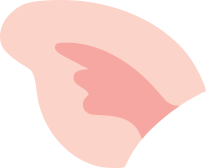
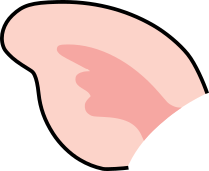
fix pig tail

diff --git a/src/filters/pig_tail.py b/src/filters/pig_tail.py
@@ -1,30 +1,78 @@
 import cv2
 import numpy as np
-from src.filters.base import overlay_sticker_from_landmarks
 
-# Load pig tail sticker
+# Load pig tail PNG (RGBA)
 pig_tail_img = cv2.imread("assets/stickers/pig_tail.png", cv2.IMREAD_UNCHANGED)
 
-# Sticker source points (base-left, base-right, tip of curl)
-pig_tail_src_pts = np.array([
-    [10, 0],   # base left
-    [0, 220],   # base right
-    [40, 220]      # tip
-])
+# Use left & right hip landmarks
+hip_landmarks = [23, 24]
 
-# Use left & right hip landmarks (see https://ai.google.dev/edge/mediapipe/solutions/vision/pose_landmarker?hl=fr)
-pig_tail_landmarks = [23, 24]
+
+def is_back_view(lm_list):
+
+    backview = False # so front view
+
+    left_shoulder = lm_list[11]  # x,y normalized
+    right_shoulder = lm_list[12]
+    left_hip = lm_list[23]
+    right_hip = lm_list[24]
+
+    if left_shoulder.visibility > 0.5 and right_shoulder.visibility > 0.5:
+        if left_shoulder.x < right_shoulder.x:
+            backview = True
+    elif left_hip.visibility > 0.5 and right_hip.visibility > 0.5:
+        if left_hip.x < right_hip.x:
+            backview = True
+    return backview
+
 
 def pig_tail_filter(image, results):
     if not results.pose_landmarks:
         return image
-    return overlay_sticker_from_landmarks(
-        image,
-        pig_tail_img,
-        pig_tail_src_pts,
-        pig_tail_landmarks,
-        results,
-        landmark_type="pose",
-        show_landmarks=False,
-        tip_offset=(0, 1.5)  # place...
-    )
+
+    h, w, _ = image.shape
+    lm_list = results.pose_landmarks.landmark
+
+    if is_back_view(lm_list):
+
+        # Compute hip center in pixels
+        x1, y1 = int(lm_list[hip_landmarks[0]].x * w), int(lm_list[hip_landmarks[0]].y * h)
+        x2, y2 = int(lm_list[hip_landmarks[1]].x * w), int(lm_list[hip_landmarks[1]].y * h)
+        cx, cy = (x1 + x2) // 2, (y1 + y2) // 2
+
+        # Scale tail width to hip distance
+        hip_dist = max(1, int(np.hypot(x2 - x1, y2 - y1)))  # avoid divide by zero
+        scale = hip_dist / pig_tail_img.shape[1]  # width scaling
+
+        tail_h = int(pig_tail_img.shape[0] * scale)
+        tail_w = int(pig_tail_img.shape[1] * scale)
+        tail_resized = cv2.resize(pig_tail_img, (tail_w, tail_h), interpolation=cv2.INTER_AREA)
+
+        # Compute top-left corner to center on hip
+        x_offset = cx - tail_w // 2
+        y_offset = cy - tail_h // 2
+
+        # Overlay PNG with alpha
+        for c in range(3):  # RGB channels
+            alpha = tail_resized[:, :, 3] / 255.0
+            y1_clip = max(0, y_offset)
+            y2_clip = min(h, y_offset + tail_h)
+            x1_clip = max(0, x_offset)
+            x2_clip = min(w, x_offset + tail_w)
+
+            # Check if there is anything to overlay
+            if y2_clip <= y1_clip or x2_clip <= x1_clip:
+                return image  # nothing to draw
+
+            tail_crop = tail_resized[
+                y1_clip - y_offset : y2_clip - y_offset,
+                x1_clip - x_offset : x2_clip - x_offset
+            ]
+
+            alpha_crop = tail_crop[:, :, 3] / 255.0
+            image[y1_clip:y2_clip, x1_clip:x2_clip, c] = (
+                (1 - alpha_crop) * image[y1_clip:y2_clip, x1_clip:x2_clip, c] +
+                alpha_crop * tail_crop[:, :, c]
+            )
+
+    return image

diff --git a/src/filters/pig_face.py b/src/filters/pig_face.py
@@ -29,7 +29,7 @@ def pig_ear_left_filter(image, results):
         return image
     return overlay_sticker_from_landmarks(
         image, pig_ear_left_img, pig_ear_left_src_pts, pig_ear_left_landmarks,
-        results, "face", tip_offset=(-1.5, -1)
+        results, "face", tip_offset=(-1.5, -0.5)
     )
 
 def pig_ear_right_filter(image, results):
@@ -37,5 +37,5 @@ def pig_ear_right_filter(image, results):
         return image
     return overlay_sticker_from_landmarks(
         image, pig_ear_right_img, pig_ear_right_src_pts, pig_ear_right_landmarks,
-        results, "face", tip_offset=(1.5, -1)
+        results, "face", tip_offset=(1.5, -0.5)
     )

diff --git a/src/vision/filter_controller.py b/src/vision/filter_controller.py
@@ -1,3 +1,6 @@
+# Do not need this one?!
+
+"""
 from src.filters.pig_tail import pig_tail_filter
 from src.filters.pig_face import pig_nose_filter, pig_ear_left_filter, pig_ear_right_filter
 from src.filters.base import add_filters
@@ -12,3 +15,4 @@ def apply_pig_filters(image, results, level):
     # later add: level 3 color, level 4 full pig, level 5 bacon
 
     return add_filters(image, results, filters)
+"""
